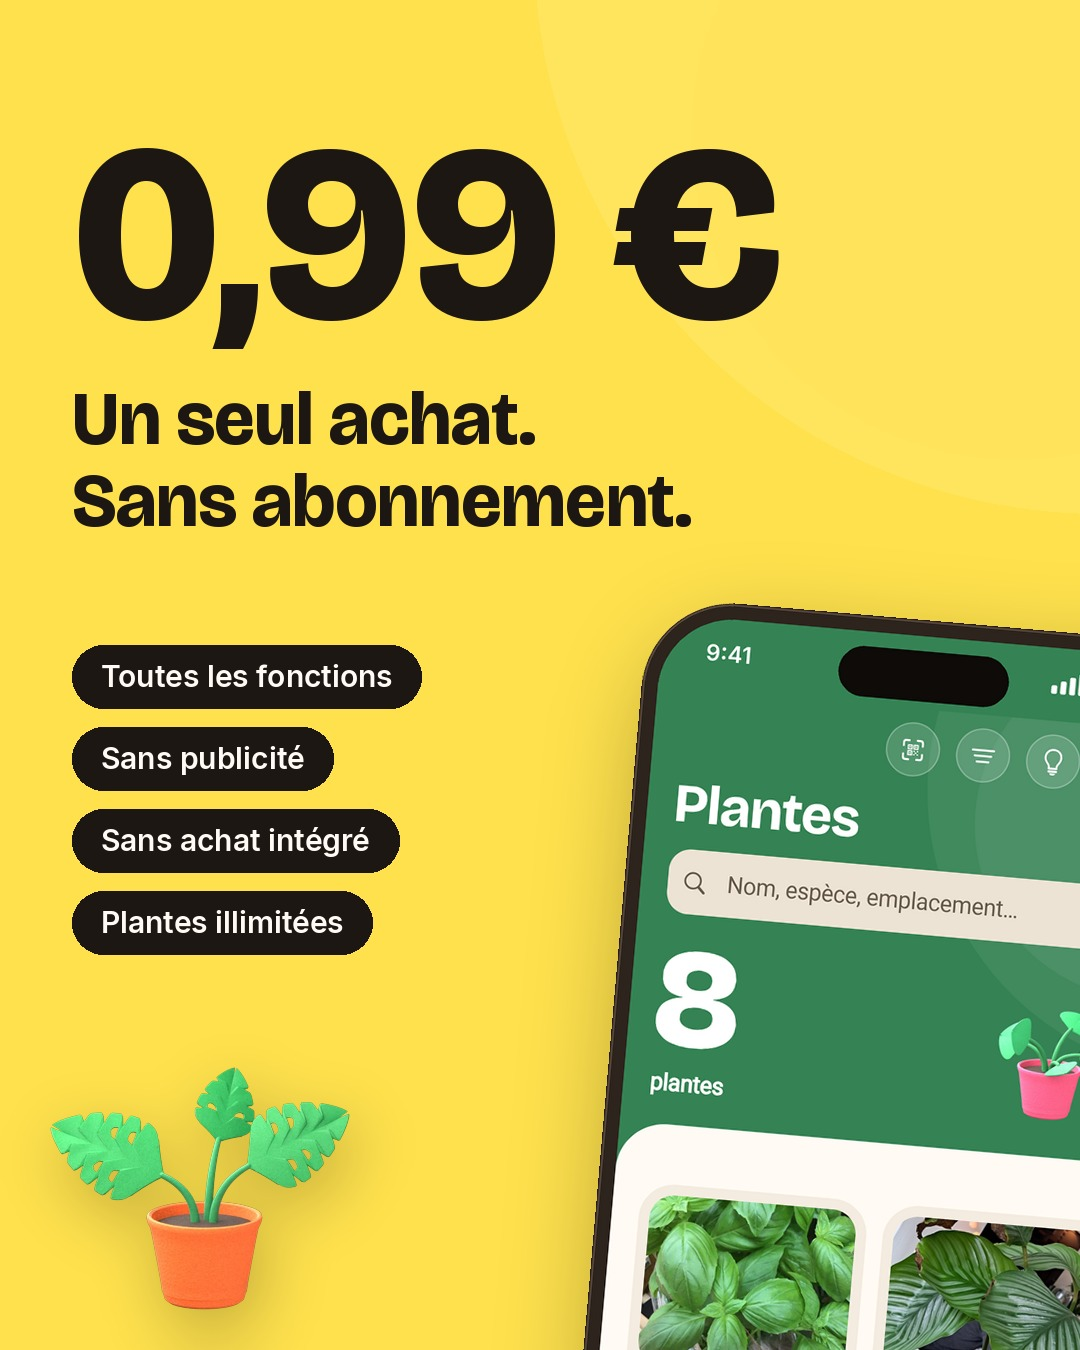
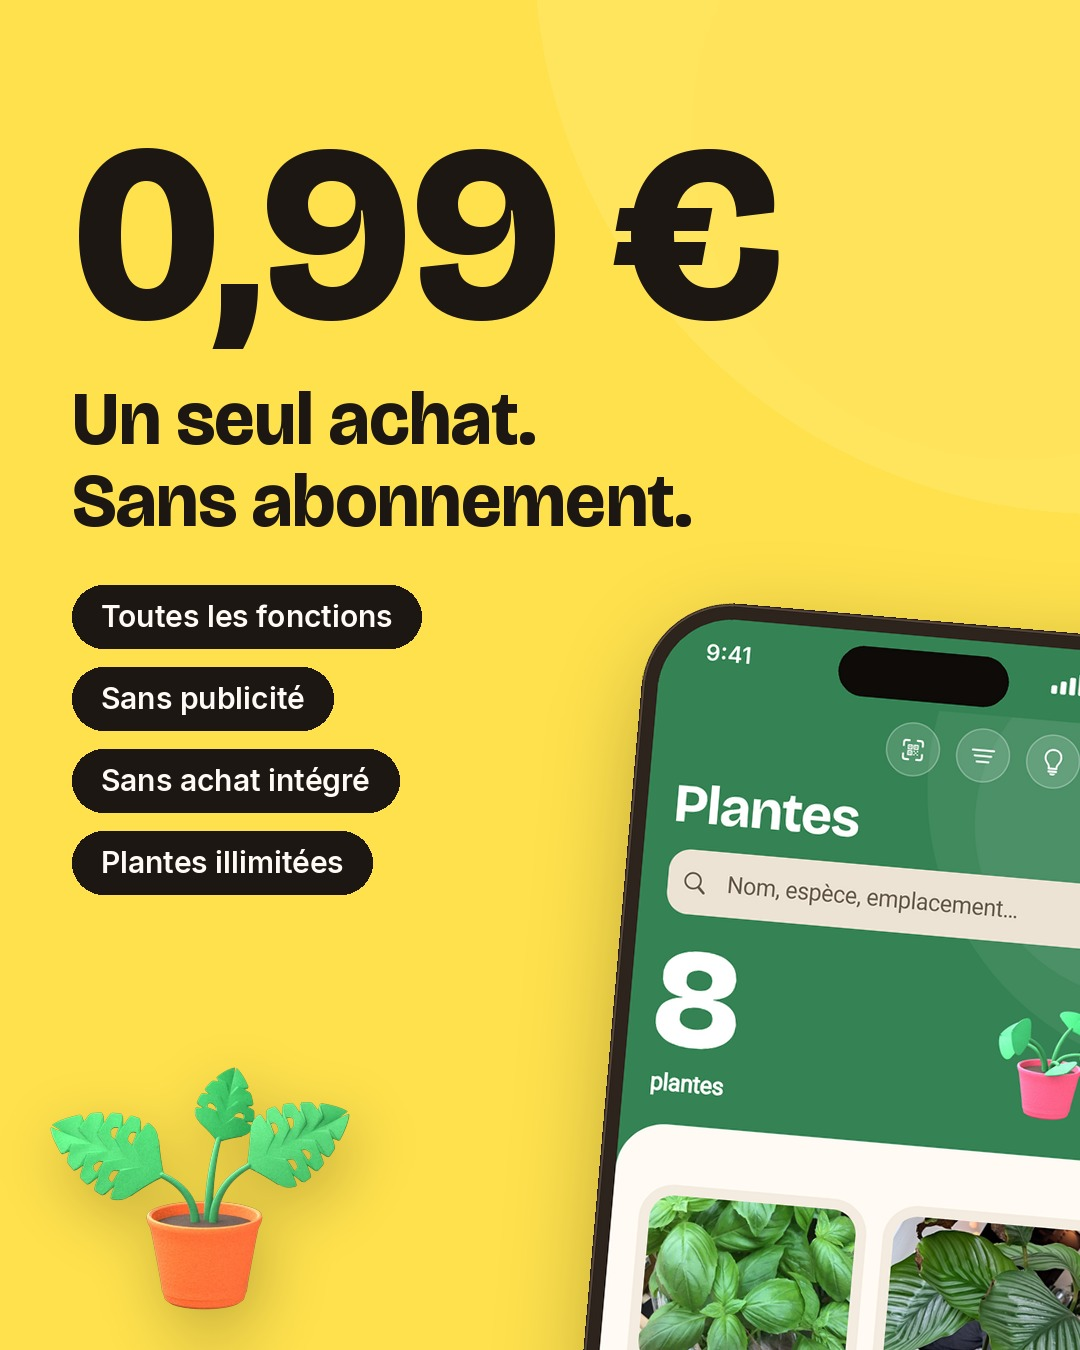
marketing : la série de la sortie
Annonce, attente, compte à rebours J-3 à J-1, merci, modèle de mise à
jour, et les bannières « Disponible sur l'App Store. » : 24 images dans
marketing/fr/sortie/. Un titre trop large pour sa place rapetisse au lieu
de déborder.

Claude-Session: https://claude.ai/code/session_01PDVjaF1d2UBx4x9v8SHUv3

Changed region(s): [[0.0611, 0.4356, 0.3972, 0.7156]]

diff --git a/marketing/kit.py b/marketing/kit.py
@@ -36,7 +36,7 @@ OBJ = 'assets/onboarding/collection_{}.webp'
 THEMES = {
     'marque': dict(title='Le carnet\nde vos plantes.', sub='Soins, identification, diagnostic et journal photo.',
                    tint='sage', shot='today', obj=POT),
-    'prix': dict(title='0,99 €', lead='Un seul achat.\nSans abonnement.', sub=None, tint='sun', shot='plants',
+    'prix': dict(big=True, title='0,99 €', lead='Un seul achat.\nSans abonnement.', sub=None, tint='sun', shot='plants',
                  obj=OBJ.format('monstera'),
                  pills=['Toutes les fonctions', 'Sans publicité', 'Sans achat intégré', 'Plantes illimitées']),
     'iris': dict(title='Quelle est\ncette plante ?', sub='Une photo suffit, même sans réseau.', tint='lavender',
@@ -54,6 +54,25 @@ THEMES = {
     'hors-ligne': dict(title='Vos plantes\nrestent chez vous.', sub='Sans compte, vos données restent sur votre appareil.',
                        tint='night', shot=None, obj=POT),
 }
+
+
+# La sortie : l'annonce, l'attente, le compte à rebours, le merci, et un
+# modèle pour chaque mise à jour. Pas de date : elle se met dans le texte
+# qui accompagne l'image.
+SORTIE = {
+    'bientot': dict(title='Bientôt\nsur l’App Store.', sub='Auxine, le carnet de vos plantes.', tint='night', shot=None, obj=POT),
+    'j-3': dict(big=True, title='J-3', lead='Auxine arrive\nsur l’App Store.', sub=None, tint='water', shot=None, obj=POT),
+    'j-2': dict(big=True, title='J-2', lead='Auxine arrive\nsur l’App Store.', sub=None, tint='lavender', shot=None, obj=POT),
+    'j-1': dict(big=True, title='J-1', lead='Auxine arrive\nsur l’App Store.', sub=None, tint='rose', shot=None, obj=POT),
+    'disponible': dict(title='Auxine est\ndisponible.', sub='Sur l’App Store, pour iPhone et iPad.', tint='sage', shot=None, obj=POT,
+                       pills=['0,99 €', 'Un seul achat', 'Sans abonnement']),
+    'disponible-ecran': dict(title='Auxine est\ndisponible.', sub='Sur l’App Store, pour iPhone et iPad.', tint='sun', shot='today',
+                             obj=OBJ.format('monstera'), pills=['0,99 €', 'Un seul achat', 'Sans abonnement']),
+    'merci': dict(big=True, title='Merci.', lead='Pour votre accueil\net vos retours.', sub=None, tint='sun', shot=None, obj=POT),
+    'nouveautes': dict(title='Nouveau\ndans Auxine.', sub='La mise à jour est sur l’App Store.', tint='terracotta', shot='today',
+                       obj=OBJ.format('caoutchouc')),
+}
+THEMES.update(SORTIE)
 
 
 # --- les outils ------------------------------------------------------------------
@@ -90,6 +109,9 @@ def texte(img, x, y, width, title, sub, size, ink, ink2, align='left', lead=None
     """Le titre en Bricolage, la phrase en Inter. Un titre géant (le prix)
     prend dessous une seconde ligne en Bricolage, [lead]. Rend le bas du bloc."""
     d = ImageDraw.Draw(img)
+    # Un mot ne se coupe pas : trop large pour la place, le titre rapetisse.
+    while max(d.textlength(m, font=C.display(size)) for m in title.split()) > width:
+        size -= 4
     blocs = [(title, C.display(size), 1.06)]
     if lead:
         blocs.append((lead, C.display(int(size * 0.3), 750), 1.1))
@@ -147,6 +169,14 @@ def objet(img, path, box, x, y):
     return o.size
 
 
+def objet_sous(img, path, top, bottom, box, align, width, margin=40):
+    """L'objet entre le bas du texte ([top]) et [bottom], aussi grand que
+    [box] le permet : il ne remonte jamais sur une ligne."""
+    o = C.crisp(path, box=int(max(160, min(box, bottom - top))))
+    x = (width - o.width) / 2 if align == 'center' else width - o.width - margin
+    poser(img, o, (x, bottom - o.height), blur=max(12, o.height // 10), offset=(o.width // 40, o.height // 14), alpha=0.26)
+
+
 def marque(img, cx, cy, height, ink, ink2, tagline=True):
     """Le pot de l'icône, « Auxine » à côté, et la phrase dessous : le groupe
     centré sur (cx, cy)."""
@@ -154,9 +184,10 @@ def marque(img, cx, cy, height, ink, ink2, tagline=True):
     pot = C.crisp(POT, box=int(height))
     title = C.display(int(height * 0.52))
     sub = C.font('Medium', int(height * 0.12))
+    phrase = tagline if isinstance(tagline, str) else 'Le carnet de vos plantes.'
     tw = d.textlength('Auxine', font=title)
     if tagline:
-        tw = max(tw, d.textlength('Le carnet de vos plantes.', font=sub))
+        tw = max(tw, d.textlength(phrase, font=sub))
     gap = height * 0.15
     x0 = cx - (pot.width + gap + tw) / 2
     base = cy + height / 2
@@ -165,11 +196,12 @@ def marque(img, cx, cy, height, ink, ink2, tagline=True):
     d = ImageDraw.Draw(img)
     d.text((tx, cy + height * (0.14 if tagline else 0.2)), 'Auxine', font=title, fill=ink, anchor='ls')
     if tagline:
-        d.text((tx + height * 0.02, cy + height * 0.36), 'Le carnet de vos plantes.', font=sub, fill=ink2, anchor='ls')
+        d.text((tx + height * 0.02, cy + height * 0.36), phrase, font=sub, fill=ink2, anchor='ls')
 
 
 def enregistrer(img, name, transparent=False):
     path = os.path.join(OUT, name)
+    os.makedirs(os.path.dirname(path), exist_ok=True)
     if transparent:
         img.save(path + '.png', optimize=True)
     else:
@@ -185,15 +217,22 @@ def encre_pastille(tint):
 
 # --- les formats ---------------------------------------------------------------
 
-def carre(key):
+def carre(key, dossier=''):
     """Publication carrée, 1080 × 1080 (Instagram, X, Facebook, LinkedIn)."""
     t = THEMES[key]
     img, ink, ink2 = fond((1080, 1080), t['tint'])
+    big = t.get('big')
     if t['shot'] is None:
-        texte(img, 80, 96, 920, t['title'], t['sub'], 96, ink, ink2)
-        objet(img, t['obj'], 560, 1080 - 600, 1080 - 70)
+        y = texte(img, 80, 96, 920, t['title'], t['sub'], 300 if big else 96, ink, ink2, lead=t.get('lead'))
+        if t.get('pills'):
+            fill, pen = encre_pastille(t['tint'])
+            pastilles(img, 80, y + 40, t['pills'], 30, fill, pen)
+            objet_sous(img, t['obj'], y + 30, 1080 - 60, 520, 'right', 1080)
+        elif big:
+            objet_sous(img, t['obj'], y + 30, 1080 - 60, 560, 'right', 1080)
+        else:
+            objet(img, t['obj'], 560, 1080 - 600, 1080 - 70)
     else:
-        big = key == 'prix'
         y = texte(img, 72, 76, 936, t['title'], t['sub'], 200 if big else 84, ink, ink2, lead=t.get('lead'))
         telephone(img, t['shot'], 470, 1080 - 470 - 30, max(y + 30, 400), -4)
         if t.get('pills'):
@@ -201,27 +240,34 @@ def carre(key):
             pastilles(img, 72, y + 40, t['pills'], 27, fill, pen)
         else:
             objet(img, t['obj'], 330, 60, 1080 - 50)
-    enregistrer(img, f'post-carre-{key}')
+    enregistrer(img, f'{dossier}post-carre-{key}')
 
 
-def portrait(key):
+def portrait(key, dossier=''):
     """Publication 4:5, 1080 × 1350 : la plus grande place dans un fil."""
     t = THEMES[key]
     img, ink, ink2 = fond((1080, 1350), t['tint'])
-    big = key == 'prix'
-    y = texte(img, 72, 84, 936, t['title'], t['sub'], 250 if big else 96, ink, ink2, lead=t.get('lead'))
+    big = t.get('big')
+    y = texte(img, 72, 84, 936, t['title'], t['sub'], (330 if t['shot'] is None else 250) if big else 96, ink, ink2, lead=t.get('lead'))
+    if t['shot'] is None:
+        if t.get('pills'):
+            fill, pen = encre_pastille(t['tint'])
+            pastilles(img, 72, y + 40, t['pills'], 32, fill, pen)
+        objet_sous(img, t['obj'], y + 40, 1350 - 70, 640, 'right', 1080)
+        enregistrer(img, f'{dossier}post-portrait-{key}')
+        return
     top = max(y + 50, 560)
     telephone(img, t['shot'], 560, 1080 - 560 + 20, top, -5)
     if t.get('pills'):
         fill, pen = encre_pastille(t['tint'])
-        pastilles(img, 72, top + 50, t['pills'], 30, fill, pen)
+        pastilles(img, 72, min(top + 50, y + 40), t['pills'], 30, fill, pen)
         objet(img, t['obj'], 300, 50, 1350 - 40)
     else:
         objet(img, t['obj'], 360, 50, 1350 - 50)
-    enregistrer(img, f'post-portrait-{key}')
+    enregistrer(img, f'{dossier}post-portrait-{key}')
 
 
-def story(key):
+def story(key, dossier=''):
     """Story et Reels, 1080 × 1920. Le haut (250 px) et le bas (340 px)
     passent sous l'interface : le texte s'en garde."""
     t = THEMES[key]
@@ -232,17 +278,20 @@ def story(key):
               110, ink, ink2, align='center')
         enregistrer(img, f'story-{key}')
         return
-    big = key == 'prix'
-    y = texte(img, 80, 260, 920, t['title'], t['sub'], 280 if big else 118, ink, ink2, lead=t.get('lead'))
+    big = t.get('big')
+    y = texte(img, 80, 260, 920, t['title'], t['sub'], (400 if t['shot'] is None else 280) if big else 118, ink, ink2, lead=t.get('lead'))
     if t.get('pills'):
         fill, pen = encre_pastille(t['tint'])
         y = pastilles(img, 80, y + 40, t['pills'], 34, fill, pen, vertical=False, max_x=1000)
-    telephone(img, t['shot'], 720, 1080 - 720 + 20, max(y + 70, 820), -4)
-    objet(img, t['obj'], 300, 0, 1920 - 150)
-    enregistrer(img, f'story-{key}')
+    if t['shot'] is None:
+        objet_sous(img, t['obj'], y + 80, 1920 - 320, 780, 'center', 1080)
+    else:
+        telephone(img, t['shot'], 720, 1080 - 720 + 20, max(y + 70, 820), -4)
+        objet(img, t['obj'], 300, 0, 1920 - 150)
+    enregistrer(img, f'{dossier}story-{key}')
 
 
-def paysage(key):
+def paysage(key, dossier=''):
     """Publication 16:9, 1600 × 900 (X, LinkedIn, présentation)."""
     t = THEMES[key]
     img, ink, ink2 = fond((1600, 900), t['tint'])
@@ -250,15 +299,22 @@ def paysage(key):
         marque(img, 800, 430, 300, ink, ink2)
         enregistrer(img, f'post-paysage-{key}')
         return
-    big = key == 'prix'
+    big = t.get('big')
     y = texte(img, 96, 150, 800, t['title'], t['sub'], 220 if big else 100, ink, ink2, lead=t.get('lead'))
+    if t['shot'] is None:
+        if t.get('pills'):
+            fill, pen = encre_pastille(t['tint'])
+            pastilles(img, 96, y + 40, t['pills'], 30, fill, pen, vertical=False, max_x=940)
+        objet_sous(img, t['obj'], 90, 900 - 70, 640, 'right', 1600, margin=110)
+        enregistrer(img, f'{dossier}post-paysage-{key}')
+        return
     telephone(img, t['shot'], 540, 1600 - 540 - 60, 120, -5)
     if t.get('pills'):
         fill, pen = encre_pastille(t['tint'])
         pastilles(img, 96, y + 40, t['pills'][:3], 28, fill, pen, vertical=False, max_x=940)
     else:
         objet(img, t['obj'], 330, 760, 900 - 40)
-    enregistrer(img, f'post-paysage-{key}')
+    enregistrer(img, f'{dossier}post-paysage-{key}')
 
 
 def profils():
@@ -327,7 +383,25 @@ def profils():
     enregistrer(img, 'miniature-video-1280x720')
 
 
+def sortie():
+    """La série de la sortie, dans fr/sortie/."""
+    d = 'sortie/'
+    for k in SORTIE:
+        carre(k, d)
+        story(k, d)
+    for k in ('bientot', 'disponible', 'disponible-ecran', 'merci'):
+        portrait(k, d)
+    for k in ('disponible', 'disponible-ecran'):
+        paysage(k, d)
+    for nom, taille, cy, h in (('banniere-x-1500x500', (1500, 500), 330, 250),
+                               ('banniere-linkedin-1584x396', (1584, 396), 200, 230)):
+        img, ink, ink2 = fond(taille, 'sage')
+        marque(img, 675 if taille[0] == 1500 else 900, cy, h, ink, ink2, tagline='Disponible sur l’App Store.')
+        enregistrer(img, f'{d}{nom}')
+
+
 if __name__ == '__main__':
+    sortie()
     profils()
     for k in ('prix', 'iris', 'soins', 'diagnostic', 'fiche', 'hors-ligne'):
         carre(k)
@@ -337,4 +411,5 @@ if __name__ == '__main__':
         story(k)
     for k in ('marque', 'iris', 'prix'):
         paysage(k)
-    print(len(os.listdir(OUT)), 'fichiers dans', os.path.relpath(OUT))
+    n = sum(len(f) for _, _, f in os.walk(OUT))
+    print(n, 'fichiers dans', os.path.relpath(OUT))

diff --git a/marketing/README.md b/marketing/README.md
@@ -44,3 +44,19 @@ collection, le calendrier du jardin, les données sur l'appareil. Un thème
 nouveau, ou un format de plus, s'ajoute là. Les textes suivent le ton de
 `docs/06-design-system.md` : pas de point d'exclamation, des chiffres en
 chiffres.
+
+## La sortie
+
+`marketing/fr/sortie/` réunit la série du lancement, définie dans `SORTIE` :
+
+| Thème | Ce qu'il dit | Formats |
+|---|---|---|
+| `bientot` | « Bientôt sur l'App Store. » | carré, portrait, story |
+| `j-3`, `j-2`, `j-1` | le compte à rebours | carré, story |
+| `disponible` | « Auxine est disponible. », le pot seul | carré, portrait, story, 16:9 |
+| `disponible-ecran` | la même annonce, avec l'écran Aujourd'hui | carré, portrait, story, 16:9 |
+| `merci` | « Merci. Pour votre accueil et vos retours. » | carré, portrait, story |
+| `nouveautes` | un modèle pour chaque mise à jour | carré, story |
+
+S'y ajoutent les bannières X et LinkedIn « Disponible sur l'App Store. ».
+Aucune image ne porte de date : elle va dans le texte qui l'accompagne.
